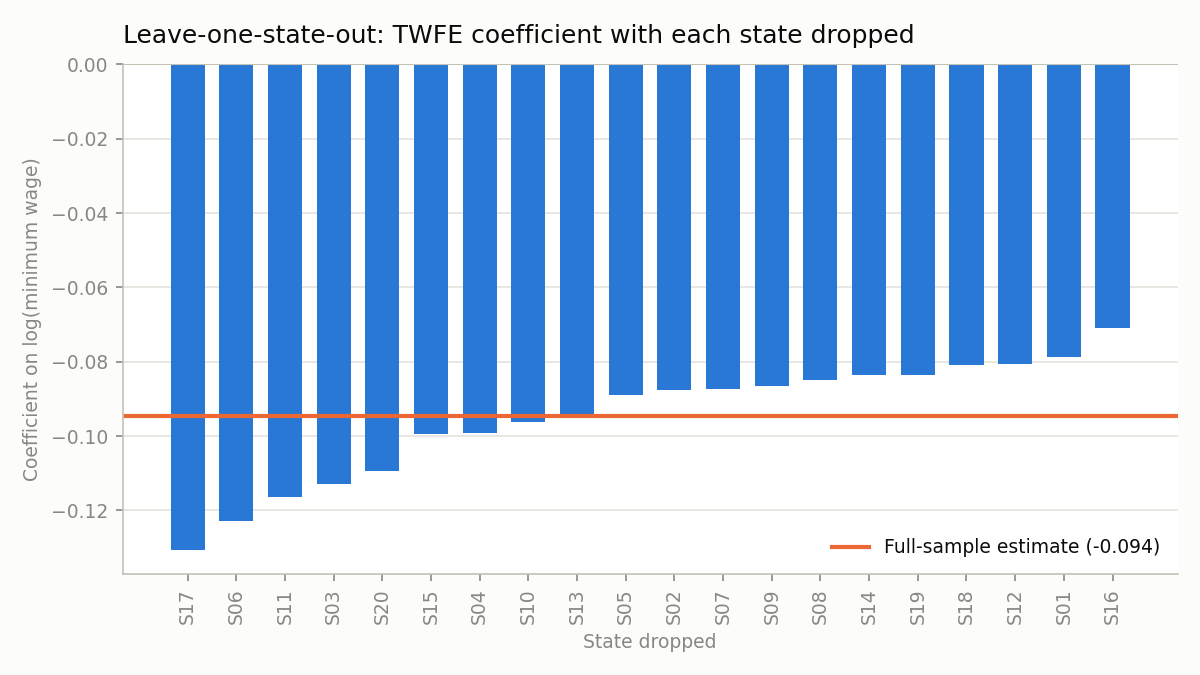
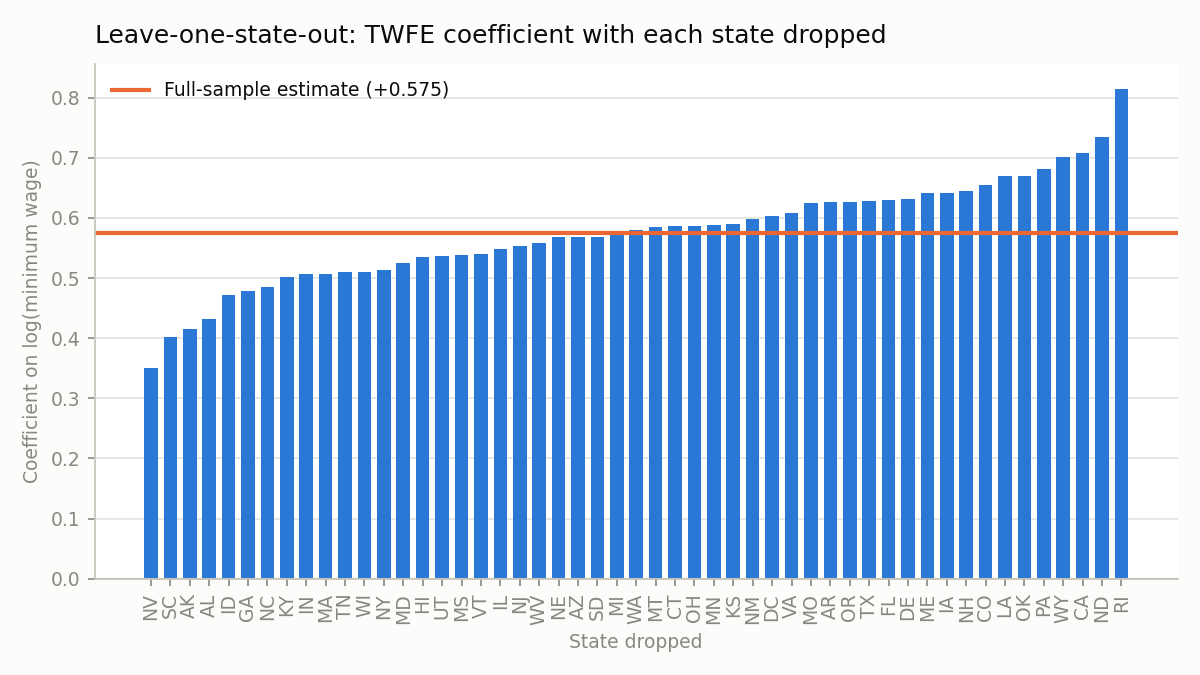
Regenerate every figure from the real 2000-2022 panel
placebo_distribution.png and leave_one_state_out.png were the last two
still carrying synthetic-panel output; the rest were regenerated when the
estimators were ported. All eight now come from the real BLS LAUS x
Vaghul-Zipperer panel: 1,173 state-year rows, 51 jurisdictions.

Also moves the method-comparison legend below the axes. It sat in the
lower right, where it overlapped the border-discontinuity interval once
real estimates spread the panel out; no in-axes corner is free.

diff --git a/scripts/make_figures.py b/scripts/make_figures.py
@@ -164,8 +164,9 @@ def fig_method_comparison(panel, is_synthetic=False):
         plt.Line2D([], [], color=C_ACCENT, marker="o", linestyle="",
                    label=f"Semi-elasticity x {factor:.3f} (converted)"),
     ]
+    # Below the axes: every in-axes corner collides with one CI or another.
     ax.legend(handles=handles, frameon=False, fontsize=8.5, labelcolor=INK,
-              loc="lower right")
+              loc="upper center", bbox_to_anchor=(0.5, -0.16), ncol=2)
 
     if is_synthetic:
         truth = TRUE_EFFECT * factor
